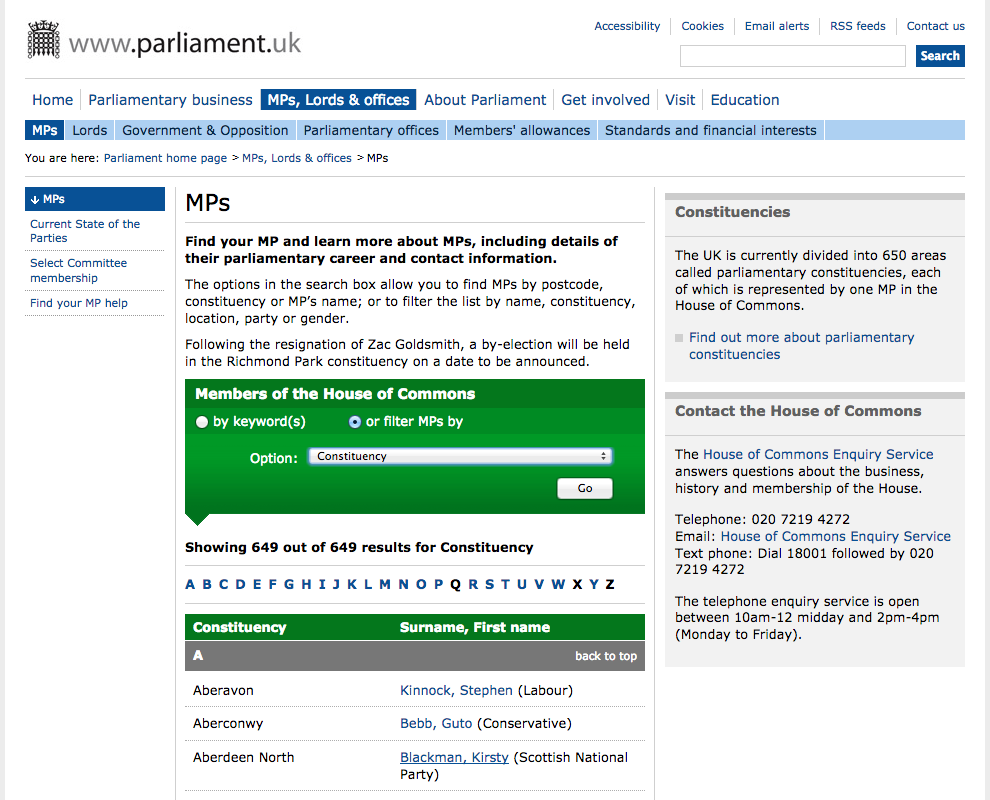
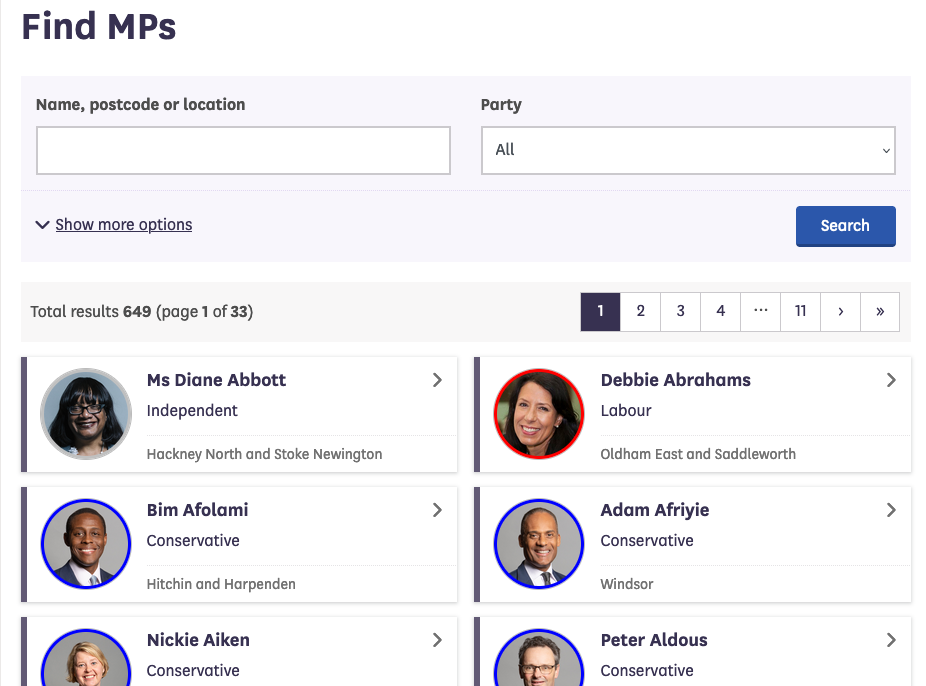
fix UK Parliament example (closes #1)

diff --git a/_episodes/01-introduction.md b/_episodes/01-introduction.md
@@ -114,7 +114,7 @@ parliamentarians from Alberta and list their names and caucus information.
 >
 {: .callout}
 
-Let's look now at the current list of members for the [UK House of Commons](https://www.parliament.uk/mps-lords-and-offices/mps/). 
+Let's look now at the current list of members for the [UK House of Commons](https://members.parliament.uk/members/commons).
 
 ![Screenshot of the UK House of Commons website]({{ page.root }}/fig/ukparl.png)
 
@@ -125,19 +125,32 @@ Here is the code for this page:
 
 ~~~
 (...)
-<table>
-    <tbody>
-        (...)
-        <tr id="ctl00_ctl00_(...)_trItemRow" class="first">
-            <td>Aberavon</td>
-            <td id="ctl00_ctl00_(...)_tdNameCellRight">
-                <a id="ctl00_ctl00_(...)_hypName" href="http://www.parliament.uk/biographies/commons/stephen-kinnock/4359">Kinnock, Stephen</a>(Labour)
-            </td>
-        </tr>
-        (...)
-    </tbody>
-</table>
-(...)
+<a class="card card-member" href="/member/172/contact">
+    <div class="card-inner">
+        <div class="content">
+            <div class="image-outer">
+                <div class="image" aria-label="Image of Ms Diane Abbott" style="background-image: url(https://members-api.parliament.uk/api/Members/172/Thumbnail); border-color: #C0C0C0;"></div>
+            </div>
+            <div class="primary-info">
+                Ms Diane Abbott
+            </div>
+            <div class="secondary-info">
+                Independent
+            </div>
+        </div>
+        <div class="info">
+            <div class="info-inner">
+                <div class="indicators-left">
+                    <div class="indicator indicator-label">
+                        Hackney North and Stoke Newington
+                    </div>
+                </div>
+
+                <div class="clearfix"></div>
+            </div>
+        </div>
+    </div>
+</a>(...)
 ~~~
 {: .output}
 
